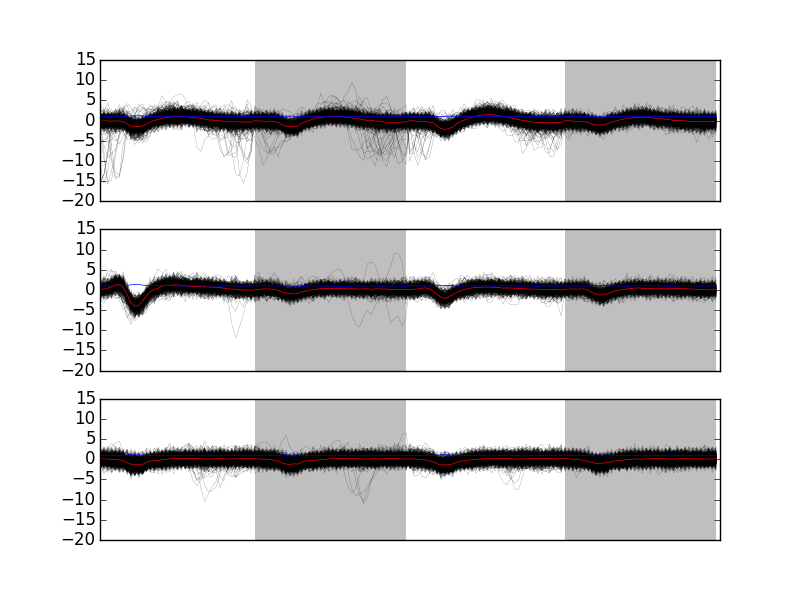
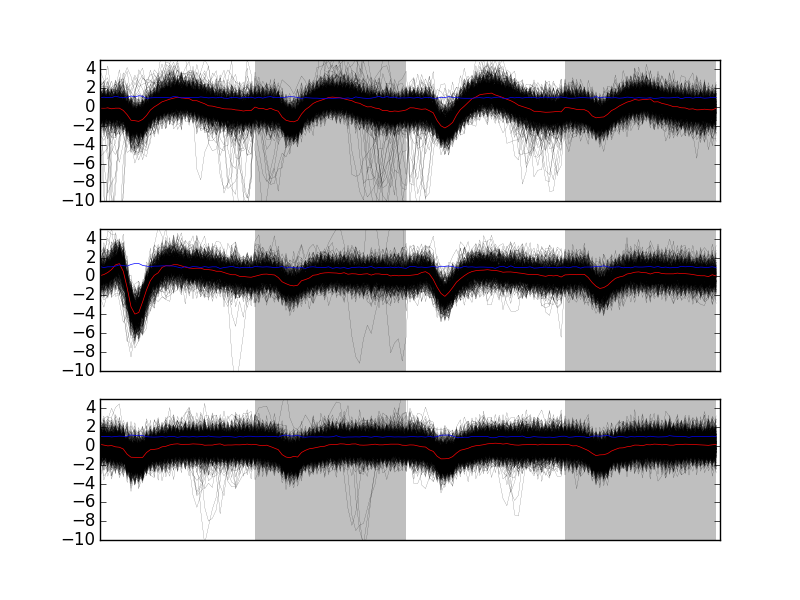
Some minor improvements at the end.

diff --git a/SortingBigDataSet.html b/SortingBigDataSet.html
@@ -4,7 +4,7 @@
 <html xmlns="http://www.w3.org/1999/xhtml" lang="en" xml:lang="en">
 <head>
 <title>Sorting a Big Data Set With Python</title>
-<!-- 2015-07-20 lun. 17:12 -->
+<!-- 2015-07-28 mar. 17:31 -->
 <meta  http-equiv="Content-Type" content="text/html;charset=utf-8" />
 <meta  name="generator" content="Org-mode" />
 <meta  name="author" content="Christophe Pouzat" />
@@ -253,7 +253,7 @@ for the JavaScript code in this tag.
 <h2 id="sec-1"><span class="section-number-2">1</span> Introduction</h2>
 <div class="outline-text-2" id="text-1">
 <p>
-The purpose of this document is to expose in a comprehensive way how the spike sorting of a "large" data set can be performed with "simple" tools built around the <code>Python</code> language. The data were recorded from a locust <i>Schistocerca americana</i> antennal lobe (the first olfactory relay, equivalent of the <i>olfactory bulb</i> of vertebrates). A total of 1 hour and 40 minutes of spontaneous activity was recorded as well as responses to 150 stimulation with citral. The set is publicly available on <a href="https://zenodo.org/record/19461?ln=en#.VaeBSzLLpRQ">zenodo</a> (DOI: <a href="http://dx.doi.org/10.5281/zenodo.19461">10.5281/zenodo.19461</a>). The recording setting is described in Pouzat, Mazor and Laurent (2002)<sup><a id="fnr.1" name="fnr.1" class="footref" href="#fn.1">1</a></sup> and a picture of the recording situation can be seen of the third slide of Pouzat (2014)<sup><a id="fnr.2" name="fnr.2" class="footref" href="#fn.2">2</a></sup>. The purpose of these long recordings was probing interactions between neurons and how they are modified by a stimulus.
+The purpose of this document is to expose in a comprehensive way how the spike sorting of a "large" data set can be performed with "simple" tools built around the <code>Python</code> language. The data were recorded from a locust <i>Schistocerca americana</i> antennal lobe (the first olfactory relay, equivalent of the <i>olfactory bulb</i> of vertebrates). A total of 1 hour and 40 minutes of spontaneous activity was recorded as well as responses to 150 stimulation with citral. The set is publicly available on <a href="https://zenodo.org/record/21589">zenodo</a> (DOI: <a href="http://dx.doi.org/10.5281/zenodo.21589">10.5281/zenodo.21589</a>). The recording setting is described in Pouzat, Mazor and Laurent (2002)<sup><a id="fnr.1" name="fnr.1" class="footref" href="#fn.1">1</a></sup> and a picture of the recording situation can be seen of the third slide of Pouzat (2014)<sup><a id="fnr.2" name="fnr.2" class="footref" href="#fn.2">2</a></sup>. The purpose of these long recordings was probing interactions between neurons and how they are modified by a stimulus.
 </p>
 
 <p>
@@ -288,7 +288,7 @@ The data can be downloaded with <code>Python</code> as follows:
 except ImportError:
     from urllib import urlretrieve # Python 2
     
-urlretrieve('https://zenodo.org/record/19461/files/locust20010201.hdf5',\
+urlretrieve('https://zenodo.org/record/21589/files/locust20010201.hdf5',\
             'locust20010201.hdf5')
 </pre>
 </div>
@@ -1198,13 +1198,13 @@ Here the second cluster seems to be made of two units. Looking at the last 3 clu
 
 <pre class="src src-python">plt.subplot(311)
 swp.plot_events(evts[np.array(c7b) == 4,:])
-plt.ylim([-20,15])
+plt.ylim([-10,5])
 plt.subplot(312)
 swp.plot_events(evts[np.array(c7b) == 5,:])
-plt.ylim([-20,15])
+plt.ylim([-10,5])
 plt.subplot(313)
 swp.plot_events(evts[np.array(c7b) == 6,:])
-plt.ylim([-20,15])
+plt.ylim([-10,5])
 </pre>
 </div>
 
@@ -1831,19 +1831,19 @@ The number of spikes attributed to each neuron is:
 
 <div class="org-src-container">
 
-<pre class="src src-python">[(n,len(spike_trains[n])) for n in list(centers)]
+<pre class="src src-python">[(n,len(spike_trains[n])) for n in ['Cluster '+str(i) for i in range(8)]]
 </pre>
 </div>
 
 <pre class="example">
-[('Cluster 3', 71),
- ('Cluster 4', 978),
- ('Cluster 7', 37),
- ('Cluster 6', 1609),
- ('Cluster 0', 75),
- ('Cluster 5', 451),
+[('Cluster 0', 75),
  ('Cluster 1', 259),
- ('Cluster 2', 126)]
+ ('Cluster 2', 126),
+ ('Cluster 3', 71),
+ ('Cluster 4', 982),
+ ('Cluster 5', 452),
+ ('Cluster 6', 1615),
+ ('Cluster 7', 37)]
 </pre>
 
 <p>
@@ -1892,7 +1892,7 @@ Christophe Pouzat. (2015). PouzatDetorakisEuroScipy2014: Complet avec référenc
 </div></div>
 <div id="postamble" class="status">
 <p class="author">Author: Christophe Pouzat</p>
-<p class="date">Created: 2015-07-20 lun. 17:12</p>
+<p class="date">Created: 2015-07-28 mar. 17:31</p>
 <p class="creator">Emacs 24.5.1 (Org mode 8.2.10)</p>
 <p class="validation"><a href="http://validator.w3.org/check?uri=referer">Validate</a></p>
 </div>
